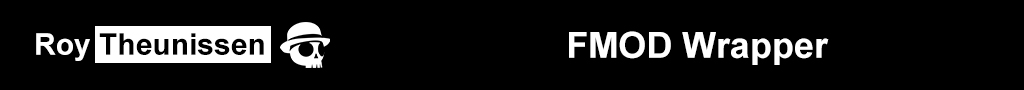
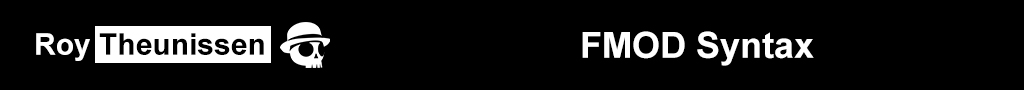
Renamed FMOD-Wrapper to FMOD-Syntax which is catchier.

Changed region(s): [[0.5312, 0.3333, 0.8125, 0.7333]]

diff --git a/Editor/FmodCodeGenerator.cs b/Editor/FmodCodeGenerator.cs
@@ -7,14 +7,14 @@ using FMOD.Studio;
 using FMODUnity;
 using UnityEngine;
 
-namespace RoyTheunissen.FMODWrapper
+namespace RoyTheunissen.FMODSyntax
 {
     /// <summary>
     /// Generates code for FMOD events & parameters.
     /// </summary>
     public static class FmodCodeGenerator
     {
-        private static string ScriptPathBase => FmodWrapperSettings.Instance.GeneratedScriptsFolderPath;
+        private static string ScriptPathBase => FmodSyntaxSettings.Instance.GeneratedScriptsFolderPath;
         private const string TemplatePathBase = "Templates/Fmod/";
         
         private static string EventsScriptPath => ScriptPathBase + "FmodEvents.cs";
@@ -27,7 +27,7 @@ namespace RoyTheunissen.FMODWrapper
         private const string BusesTemplatePath = TemplatePathBase + "Buses/";
         
         private static readonly CodeGenerator assemblyDefinitionGenerator =
-            new CodeGenerator(TemplatePathBase + "FMOD-Wrapper.asmdef");
+            new CodeGenerator(TemplatePathBase + "FMOD-Syntax.asmdef");
 
         private const string EventNameKeyword = "EventName";
         private static readonly CodeGenerator eventsScriptGenerator =
@@ -59,7 +59,7 @@ namespace RoyTheunissen.FMODWrapper
         private static readonly CodeGenerator busFieldGenerator =
             new CodeGenerator(BusesTemplatePath + "FmodBusField.cs");
         
-        private static FmodWrapperSettings Settings => FmodWrapperSettings.Instance;
+        private static FmodSyntaxSettings Settings => FmodSyntaxSettings.Instance;
         
         [NonSerialized] private static List<string> eventUsingDirectives = new List<string>();
         [NonSerialized] private static string[] eventUsingDirectivesDefault =
@@ -67,7 +67,7 @@ namespace RoyTheunissen.FMODWrapper
             "System",
             "System.Collections.Generic",
             "FMOD.Studio",
-            "RoyTheunissen.FMODWrapper",
+            "RoyTheunissen.FMODSyntax",
             "UnityEngine",
             "UnityEngine.Scripting",
         };
@@ -196,7 +196,7 @@ namespace RoyTheunissen.FMODWrapper
                     string enumValues = string.Empty;
                     for (int i = 0; i < parameter.Labels.Length; i++)
                     {
-                        enumValues += $"{FmodWrapperUtilities.GetFilteredNameFromPath(parameter.Labels[i])}";
+                        enumValues += $"{FmodSyntaxUtilities.GetFilteredNameFromPath(parameter.Labels[i])}";
                         if (i < parameter.Labels.Length - 1)
                             enumValues += ",";
                         enumValues += "\r\n";
@@ -368,7 +368,7 @@ namespace RoyTheunissen.FMODWrapper
             // be able to specify a different name in that use case.
             if (string.IsNullOrEmpty(eventName))
                 eventName = e.GetFilteredName();
-            string fieldName = FmodWrapperUtilities.GetFilteredNameFromPathLowerCase(eventName);
+            string fieldName = FmodSyntaxUtilities.GetFilteredNameFromPathLowerCase(eventName);
             
             eventFieldsGenerator.Reset();
             eventFieldsGenerator.ReplaceKeyword(EventNameKeyword, eventName);

diff --git a/Editor/SetupWizard.cs b/Editor/SetupWizard.cs
@@ -2,12 +2,11 @@ using System;
 using UnityEngine;
 using UnityEditor;
 using System.IO;
-using RoyTheunissen.FMODWrapper;
 
-namespace RoyTheunissen.FMODWrapper
+namespace RoyTheunissen.FMODSyntax
 {
     /// <summary>
-    /// Window to show to users when they haven't set up the FMOD Wrapper system yet to let them conveniently
+    /// Window to show to users when they haven't set up the FMOD Syntax system yet to let them conveniently
     /// initialize it with appropriate settings.
     /// </summary>
     public class SetupWizard : EditorWindow
@@ -40,13 +39,13 @@ namespace RoyTheunissen.FMODWrapper
         [InitializeOnLoadMethod]
         private static void Initialize()
         {
-            string[] settingsAsset = AssetDatabase.FindAssets("t:FmodWrapperSettings");
+            string[] settingsAsset = AssetDatabase.FindAssets($"t:{nameof(FmodSyntaxSettings)}");
             if (settingsAsset.Length > 0)
                 return;
 
             EditorApplication.delayCall += () =>
             {
-                SetupWizard setupWizard = GetWindow<SetupWizard>(true, "FMOD Wrapper Setup Wizard");
+                SetupWizard setupWizard = GetWindow<SetupWizard>(true, "FMOD Syntax Setup Wizard");
                 setupWizard.minSize = setupWizard.maxSize = new Vector2(500, 270);
                 setupWizard.namespaceForGeneratedCode = $"{Application.companyName}.{Application.productName}.FMOD";
             };
@@ -60,7 +59,7 @@ namespace RoyTheunissen.FMODWrapper
             
             EditorGUILayout.Space();
             
-            EditorGUILayout.LabelField("Welcome! You've installed the FMOD Wrapper package.");
+            EditorGUILayout.LabelField("Welcome! You've installed the FMOD Syntax package.");
             
             EditorGUILayout.Space();
             EditorGUILayout.LabelField("Let's initialize the system with some default settings.");
@@ -96,7 +95,7 @@ namespace RoyTheunissen.FMODWrapper
 
             bool shouldInitialize = GUILayout.Button("Initialize", GUILayout.Height(40));
             if (shouldInitialize)
-                InitializeFmodWrapperSystem();
+                InitializeFmodSyntaxSystem();
             
             EditorGUILayout.Space();
             
@@ -107,10 +106,10 @@ namespace RoyTheunissen.FMODWrapper
             EditorGUILayout.EndHorizontal();
         }
         
-        private void InitializeFmodWrapperSystem()
+        private void InitializeFmodSyntaxSystem()
         {
-            FmodWrapperSettings settings = CreateScriptableObject<FmodWrapperSettings>(
-                settingsFolderPath, nameof(FmodWrapperSettings));
+            FmodSyntaxSettings settings = CreateScriptableObject<FmodSyntaxSettings>(
+                settingsFolderPath, nameof(FmodSyntaxSettings));
             
             settings.InitializeFromWizard(
                 generatedScriptsFolderPath, namespaceForGeneratedCode, shouldGenerateAssemblyDefinition);

diff --git a/Runtime/FmodSyntaxSettings.cs b/Runtime/FmodSyntaxSettings.cs
@@ -6,12 +6,12 @@ using UnityEngine;
 using UnityEditor;
 #endif // UNITY_EDITOR
 
-namespace RoyTheunissen.FMODWrapper
+namespace RoyTheunissen.FMODSyntax
 {
     /// <summary>
-    /// Scriptable object that holds all the settings for the FMOD wrapper system.
+    /// Scriptable object that holds all the settings for the FMOD Syntax system.
     /// </summary>
-    public sealed class FmodWrapperSettings : ScriptableObject 
+    public sealed class FmodSyntaxSettings : ScriptableObject 
     {
         [SerializeField] private string generatedScriptsFolderPath;
         public string GeneratedScriptsFolderPath => generatedScriptsFolderPath;
@@ -25,20 +25,20 @@ namespace RoyTheunissen.FMODWrapper
         [SerializeField] private bool generateFallbacksForMissingEvents = true;
         public bool GenerateFallbacksForMissingEvents => generateFallbacksForMissingEvents;
 
-        [NonSerialized] private static FmodWrapperSettings cachedInstance;
+        [NonSerialized] private static FmodSyntaxSettings cachedInstance;
         [NonSerialized] private static bool didCacheInstance;
-        public static FmodWrapperSettings Instance
+        public static FmodSyntaxSettings Instance
         {
             get
             {
 #if UNITY_EDITOR
                 if (!didCacheInstance)
                 {
-                    string[] guids = AssetDatabase.FindAssets($"t:{nameof(FmodWrapperSettings)}");
+                    string[] guids = AssetDatabase.FindAssets($"t:{nameof(FmodSyntaxSettings)}");
                     if (guids.Length > 0)
                     {
                         string path = AssetDatabase.GUIDToAssetPath(guids[0]);
-                        cachedInstance = AssetDatabase.LoadAssetAtPath<FmodWrapperSettings>(path);
+                        cachedInstance = AssetDatabase.LoadAssetAtPath<FmodSyntaxSettings>(path);
                         didCacheInstance = cachedInstance != null;
                     }
                 }

diff --git a/Editor/Extensions/EditorEventRefExtensions.cs b/Editor/Extensions/EditorEventRefExtensions.cs
@@ -1,6 +1,6 @@
 using FMODUnity;
 
-namespace RoyTheunissen.FMODWrapper
+namespace RoyTheunissen.FMODSyntax
 {
     /// <summary>
     /// Useful extension methods for EditorEventRef.
@@ -11,22 +11,22 @@ namespace RoyTheunissen.FMODWrapper
         
         public static string GetDisplayName(this EditorEventRef @event)
         {
-            return FmodWrapperUtilities.GetDisplayNameFromPath(@event.name);
+            return FmodSyntaxUtilities.GetDisplayNameFromPath(@event.name);
         }
         
         public static string GetFilteredName(this EditorEventRef @event)
         {
-            return FmodWrapperUtilities.GetFilteredNameFromPath(@event.name);
+            return FmodSyntaxUtilities.GetFilteredNameFromPath(@event.name);
         }
         
         public static string GetFieldName(this EditorEventRef @event)
         {
-            return FmodWrapperUtilities.GetFilteredNameFromPathLowerCase(@event.name);
+            return FmodSyntaxUtilities.GetFilteredNameFromPathLowerCase(@event.name);
         }
         
         public static string GetFilteredPath(this EditorEventRef @event)
         {
-            return FmodWrapperUtilities.GetFilteredPath(@event.Path, false);
+            return FmodSyntaxUtilities.GetFilteredPath(@event.Path, false);
         }
     }
 }

diff --git a/Runtime/Events/FmodAudioPlayback.cs b/Runtime/Events/FmodAudioPlayback.cs
@@ -3,12 +3,12 @@ using System.IO;
 using FMOD;
 using FMOD.Studio;
 using FMODUnity;
-using RoyTheunissen.FMODWrapper.Callbacks;
+using RoyTheunissen.FMODSyntax.Callbacks;
 using UnityEngine;
 using Debug = UnityEngine.Debug;
 using STOP_MODE = FMOD.Studio.STOP_MODE;
 
-namespace RoyTheunissen.FMODWrapper
+namespace RoyTheunissen.FMODSyntax
 {
     /// <summary>
     /// Non-generic base class for AudioFmodPlayback to apply as a type constraint.
@@ -109,7 +109,7 @@ namespace RoyTheunissen.FMODWrapper
 
             instance.start();
 
-            FmodWrapperSystem.RegisterActivePlayback(this);
+            FmodSyntaxSystem.RegisterActivePlayback(this);
         }
 
         protected virtual void InitializeParameters()
@@ -135,7 +135,7 @@ namespace RoyTheunissen.FMODWrapper
                 }
             }
 
-            FmodWrapperSystem.UnregisterActivePlayback(this);
+            FmodSyntaxSystem.UnregisterActivePlayback(this);
         }
     }
 }

diff --git a/Editor/Extensions/EditorParamRefExtensions.cs b/Editor/Extensions/EditorParamRefExtensions.cs
@@ -2,7 +2,7 @@ using System;
 using FMODUnity;
 using UnityEngine;
 
-namespace RoyTheunissen.FMODWrapper
+namespace RoyTheunissen.FMODSyntax
 {
     /// <summary>
     /// Useful extension methods for EditorParamRef.
@@ -11,12 +11,12 @@ namespace RoyTheunissen.FMODWrapper
     {
         public static string GetFilteredName(this EditorParamRef parameter)
         {
-            return FmodWrapperUtilities.GetFilteredNameFromPath(parameter.Name);
+            return FmodSyntaxUtilities.GetFilteredNameFromPath(parameter.Name);
         }
         
         public static string GetArgumentName(this EditorParamRef parameter)
         {
-            return FmodWrapperUtilities.GetFilteredNameFromPathLowerCase(parameter.Name);
+            return FmodSyntaxUtilities.GetFilteredNameFromPathLowerCase(parameter.Name);
         }
 
         public static bool HasNormalizedRange(this EditorParamRef parameter) =>

diff --git a/Runtime/FmodSyntaxSystem.cs b/Runtime/FmodSyntaxSystem.cs
@@ -1,12 +1,12 @@
 using System.Collections.Generic;
-using RoyTheunissen.FMODWrapper.Callbacks;
+using RoyTheunissen.FMODSyntax.Callbacks;
 
-namespace RoyTheunissen.FMODWrapper
+namespace RoyTheunissen.FMODSyntax
 {
     /// <summary>
     /// Class to use to expose information, help manage playback instances, that sort of thing.
     /// </summary>
-    public static class FmodWrapperSystem
+    public static class FmodSyntaxSystem
     {
         private static readonly List<FmodAudioPlayback> activePlaybacks = new List<FmodAudioPlayback>();
         public static List<FmodAudioPlayback> ActivePlaybacks => activePlaybacks;

diff --git a/Runtime/FmodLabelEnum.cs b/Runtime/FmodLabelEnum.cs
@@ -1,9 +1,9 @@
 using System;
 
-namespace RoyTheunissen.FMODWrapper
+namespace RoyTheunissen.FMODSyntax
 {
     /// <summary>
-    /// Attribute to let the FMOD wrapper system know that a custom enum is used to represent a labelled parameter.
+    /// Attribute to let the FMOD Syntax system know that a custom enum is used to represent a labelled parameter.
     /// This is useful if for example you have a labelled parameter that is shared between various events, and you want
     /// to have only one enum represent it instead of having to map enums back-and-forth. 
     /// </summary>

diff --git a/Editor/FmodSyntaxUtilities.cs b/Editor/FmodSyntaxUtilities.cs
@@ -2,12 +2,12 @@ using System;
 using System.Collections.Generic;
 using System.IO;
 
-namespace RoyTheunissen.FMODWrapper
+namespace RoyTheunissen.FMODSyntax
 {
     /// <summary>
-    /// Useful utility methods for our FMOD wrapper.
+    /// Useful utility methods for the FMOD Syntax.
     /// </summary>
-    public static class FmodWrapperUtilities
+    public static class FmodSyntaxUtilities
     {
         private static readonly Dictionary<string, string> replacements = new Dictionary<string, string>()
         {

diff --git a/Editor/Extensions/BankEditorExtensions.cs b/Editor/Extensions/BankEditorExtensions.cs
@@ -1,4 +1,4 @@
-using RoyTheunissen.FMODWrapper;
+using RoyTheunissen.FMODSyntax;
 
 namespace FMOD.Studio
 {
@@ -9,7 +9,7 @@ namespace FMOD.Studio
     {
         public static string GetName(this Bank bank)
         {
-            return FmodWrapperUtilities.GetFilteredNameFromPath(bank.getPath());
+            return FmodSyntaxUtilities.GetFilteredNameFromPath(bank.getPath());
         }
     }
 }

diff --git a/Editor/Extensions/BusEditorExtensions.cs b/Editor/Extensions/BusEditorExtensions.cs
@@ -1,4 +1,4 @@
-using RoyTheunissen.FMODWrapper;
+using RoyTheunissen.FMODSyntax;
 
 namespace FMOD.Studio
 {
@@ -9,7 +9,7 @@ namespace FMOD.Studio
     {
         public static string GetName(this Bus bus)
         {
-            return FmodWrapperUtilities.GetFilteredNameFromPath(bus.getPath());
+            return FmodSyntaxUtilities.GetFilteredNameFromPath(bus.getPath());
         }
     }
 }

diff --git a/Runtime/Events/FmodAudioConfig.cs b/Runtime/Events/FmodAudioConfig.cs
@@ -3,7 +3,7 @@ using FMOD.Studio;
 using FMODUnity;
 using UnityEngine;
 
-namespace RoyTheunissen.FMODWrapper
+namespace RoyTheunissen.FMODSyntax
 {
     /// <summary>
     /// Config for a playable FMOD audio event. Returns an instance of the specified AudioFmodPlayback type so you can
